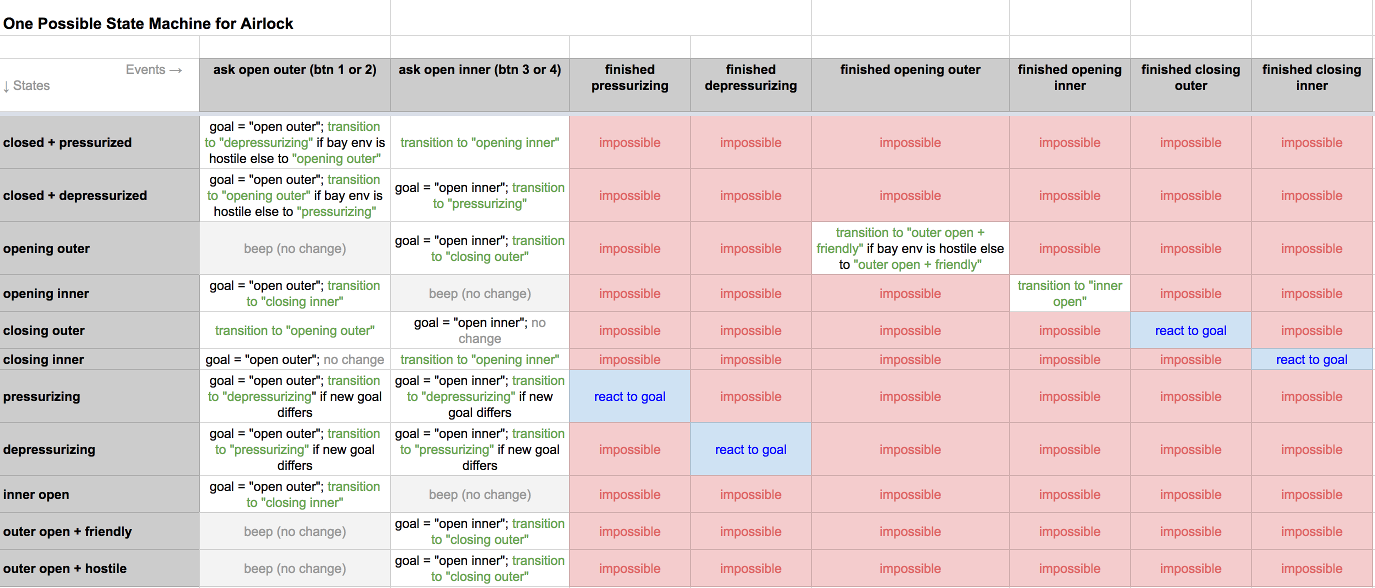
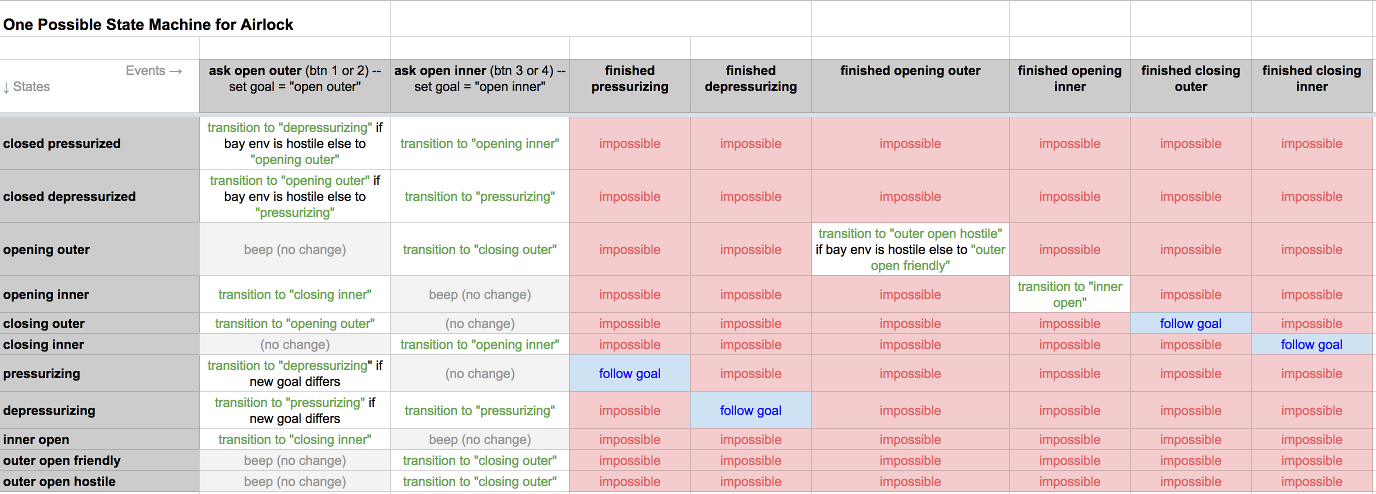
Working airlock

diff --git a/airlock.py b/airlock.py
@@ -1,0 +1,111 @@
+# Define states and events, including symbolic (numeric) constants and their friendly names.
+STATE_NAMES = ['closed pressurized', 'closed depressurized', 'opening outer', 'opening inner', 'closing outer',
+               'closing inner', 'pressurizing', 'depressurizing', 'inner open', 'outer open friendly',
+               'outer open hostile']
+for i in range(len(STATE_NAMES)):
+    globals()[STATE_NAMES[i].upper().replace(' ', '_') + '_STATE'] = i
+EVENT_NAMES = ['ask open outer', 'ask open inner', 'finished pressurizing', 'finished depressurizing',
+               'finished opening outer', 'finished opening inner', 'finished closing outer', 'finished closing inner']
+for i in range(len(EVENT_NAMES)):
+    globals()[EVENT_NAMES[i].upper().replace(' ', '_') + '_EVENT'] = i
+
+SENSOR_BAY_ENV_HOSTILE = 'bay env hostile?'
+
+class StateMachine:
+
+    def __init__(self, sensor_func, pre=None, post=None):
+        self.state = CLOSED_PRESSURIZED_STATE
+        self.goal = None
+        self._sensor_func = sensor_func
+        self._pre = pre
+        self._post = post
+
+    def handle(self, event):
+        s = self.state
+        if event == ASK_OPEN_OUTER_EVENT:
+            if s in [OPENING_OUTER_STATE, OUTER_OPEN_FRIENDLY_STATE, OUTER_OPEN_HOSTILE_STATE]:
+                return
+            target_hostile = self._check_sensor(SENSOR_BAY_ENV_HOSTILE)
+            old_goal = self.goal
+            self.goal = OUTER_OPEN_HOSTILE_STATE if target_hostile else OUTER_OPEN_FRIENDLY_STATE
+            if s == CLOSED_PRESSURIZED_STATE:
+                self._transition_to(
+                    DEPRESSURIZING_STATE if target_hostile else OPENING_OUTER_STATE, event)
+            elif s == CLOSED_DEPRESSURIZED_STATE:
+                self._transition_to(
+                    OPENING_OUTER_STATE if target_hostile else PRESSURIZING_STATE, event)
+            elif s in [OPENING_INNER_STATE, INNER_OPEN_STATE]:
+                self._transition_to(CLOSING_INNER_STATE, event)
+            elif s == CLOSING_OUTER_STATE:
+                self._transition_to(OPENING_OUTER_STATE, event)
+            elif s == CLOSING_INNER_STATE:
+                pass
+            elif s == PRESSURIZING_STATE:
+                if old_goal != self.goal:
+                    self._transition_to(DEPRESSURIZING_STATE, event)
+            elif s == DEPRESSURIZING_STATE:
+                if old_goal != self.goal:
+                    self._transition_to(PRESSURIZING_STATE, event)
+            else:
+                raise AssertionError("Unhandled state %d" % s)
+        elif event == ASK_OPEN_INNER_EVENT:
+            if s in [OPENING_INNER_STATE, INNER_OPEN_STATE]:
+                return
+            self.goal = INNER_OPEN_STATE
+            if s == CLOSED_PRESSURIZED_STATE:
+                self._transition_to(OPENING_INNER_STATE, event)
+            elif s == CLOSED_DEPRESSURIZED_STATE:
+                self._transition_to(PRESSURIZING_STATE, event)
+            elif s in [OPENING_OUTER_STATE, OUTER_OPEN_FRIENDLY_STATE, OUTER_OPEN_HOSTILE_STATE]:
+                self._transition_to(CLOSING_OUTER_STATE, event)
+            elif s == CLOSING_INNER_STATE:
+                self._transition_to(OPENING_INNER_STATE, event)
+            elif s in [PRESSURIZING_STATE, CLOSING_OUTER_STATE]:
+                pass
+            elif s == DEPRESSURIZING_STATE:
+                self._transition_to(PRESSURIZING_STATE, event)
+            else:
+                raise AssertionError("Unhandled state %d" % s)
+        else:
+            if s == OPENING_OUTER_STATE and event == FINISHED_OPENING_OUTER_EVENT:
+                target_hostile = self._check_sensor(SENSOR_BAY_ENV_HOSTILE)
+                self._transition_to(OUTER_OPEN_HOSTILE_STATE if target_hostile else OUTER_OPEN_FRIENDLY_STATE, event)
+                return
+            elif s == OPENING_INNER_STATE and event == FINISHED_OPENING_INNER_EVENT:
+                self._transition_to(INNER_OPEN_STATE, event)
+                return
+            elif (s == CLOSING_OUTER_STATE and event == FINISHED_CLOSING_OUTER_EVENT) or \
+                    (s == CLOSING_INNER_STATE and event == FINISHED_CLOSING_INNER_EVENT) or \
+                    (s == PRESSURIZING_STATE and event == FINISHED_PRESSURIZING_STATE) or \
+                    (s == DEPRESSURIZING_STATE and event == FINISHED_DEPRESSURIZING_STATE):
+                self._follow_goal(s)
+                return
+            raise AssertionError("Illegal event %s for state %s." % (EVENT_NAMES[event], STATE_NAMES[s]))
+
+    def _check_sensor(self, sensor_name):
+        if self._sensor_func:
+            return self._sensor_func(sensor_name)
+
+    def _follow_goal(self, event):
+        if self.goal == INNER_OPEN_STATE:
+            if event == FINISHED_PRESSURIZING:
+                self._transition_to(OPENING_INNER_STATE, event)
+            elif event == FINISHED_CLOSING_OUTER_EVENT:
+                self._transition_to(PRESSURIZING_STATE, event)
+            else:
+                raise AssertionError("Unhandled case.")
+        elif self.goal in [OUTER_OPEN_FRIENDLY_STATE, OUTER_OPEN_HOSTILE_STATE]:
+            if event == FINISHED_DEPRESSURIZING:
+                self._transition_to(OPENING_OUTER_STATE, event)
+            elif event == FINISHED_CLOSING_INNER_EVENT:
+                self._transition_to(DEPRESSURIZING_STATE, event)
+            else:
+                raise AssertionError("Unhandled case.")
+
+    def _transition_to(self, state, event):
+        if self._pre:
+            if not self._pre(self, state, event):
+                return
+        self.state = state
+        if self._post:
+            self._post(self, state, event)

diff --git a/test_airlock.py b/test_airlock.py
@@ -1,0 +1,41 @@
+import unittest
+
+from airlock import *
+from test_helpers import *
+
+# Define expected behavior
+expected_transitions_by_state = namify([
+    [DEPRESSURIZING_STATE, OPENING_INNER_STATE, 'ex', 'ex', 'ex', 'ex', 'ex', 'ex'],  # for CLOSED_PRESSURIZED_STATE
+    [OPENING_OUTER_STATE, PRESSURIZING_STATE, 'ex', 'ex', 'ex', 'ex', 'ex', 'ex'],  # for CLOSED_DEPRESSURIZED_STATE
+    ['', CLOSING_OUTER_STATE, 'ex', 'ex', OUTER_OPEN_HOSTILE_STATE, 'ex', 'ex', 'ex'],  # for OPENING_OUTER_STATE
+    [CLOSING_INNER_STATE, '', 'ex', 'ex', 'ex', INNER_OPEN_STATE, 'ex', 'ex'],  # for OPENING_INNER_STATE
+    [OPENING_OUTER_STATE, '', 'ex', 'ex', 'ex', 'ex', 'ex', 'ex'],  # for CLOSING_OUTER_STATE
+    ['', OPENING_INNER_STATE, 'ex', 'ex', 'ex', 'ex', 'ex', 'ex'],  # for CLOSING_INNER_STATE
+    [DEPRESSURIZING_STATE, '', 'ex', 'ex', 'ex', 'ex', 'ex', 'ex'],  # for PRESSURIZING_STATE
+    [PRESSURIZING_STATE, PRESSURIZING_STATE, 'ex', 'ex', 'ex', 'ex', 'ex', 'ex'],  # for DEPRESSURIZING_STATE
+    [CLOSING_INNER_STATE, '', 'ex', 'ex', 'ex', 'ex', 'ex', 'ex'],  # for INNER_OPEN_STATE
+    ['', CLOSING_OUTER_STATE, 'ex', 'ex', 'ex', 'ex', 'ex', 'ex'],  # for OUTER_OPEN_FRIENDLY_STATE
+    ['', CLOSING_OUTER_STATE, 'ex', 'ex', 'ex', 'ex', 'ex', 'ex'],  # for OUTER_OPEN_HOSTILE_STATE
+], STATE_NAMES)
+
+class Airlock(unittest.TestCase):
+
+    def test_matrix(self):
+        sm = StateMachine(lambda x: True)
+
+        problems = []
+        # Artificially place state machine in a state, and test every event to see if
+        # it triggers the expected transition.
+        for state in range(len(STATE_NAMES)):
+            for event in range(len(EVENT_NAMES)):
+                sm.state = state
+                transition = expected_transitions_by_state[state][event]
+                outcome = check_transition(sm, event, transition, STATE_NAMES, EVENT_NAMES)
+                if outcome:
+                    problems.append(outcome)
+        if problems:
+            msg = '\n'.join(problems)
+            self.fail(msg)
+
+if __name__ == '__main__':
+    unittest.main()

diff --git a/test_bay_door_v1.py b/test_bay_door_v1.py
@@ -1,14 +1,15 @@
 import unittest
 
 from bay_door_v1 import *
+from test_helpers import *
 
 # Define expected behavior
-expected_transitions_by_state = [
-    ['', STATE_NAMES[CLOSING_STATE], 'ex', 'ex'],  # for OPEN_STATE
-    [STATE_NAMES[OPENING_STATE], '', 'ex', 'ex'],  # for CLOSED_STATE
-    ['', STATE_NAMES[CLOSING_STATE], STATE_NAMES[OPEN_STATE], 'ex'],  # for OPENING_STATE
-    [STATE_NAMES[OPENING_STATE], '', 'ex', STATE_NAMES[CLOSED_STATE]]  # for CLOSING_STATE
-]
+expected_transitions_by_state = namify([
+    ['', CLOSING_STATE, 'ex', 'ex'],  # for OPEN_STATE
+    [OPENING_STATE, '', 'ex', 'ex'],  # for CLOSED_STATE
+    ['', CLOSING_STATE, OPEN_STATE, 'ex'],  # for OPENING_STATE
+    [OPENING_STATE, '', 'ex', CLOSED_STATE]  # for CLOSING_STATE
+], STATE_NAMES)
 
 class BayDoorV1(unittest.TestCase):
 
@@ -21,23 +22,13 @@ class BayDoorV1(unittest.TestCase):
         for state in range(len(STATE_NAMES)):
             for event in range(len(EVENT_NAMES)):
                 sm.state = state
-                outcome = check_transition(sm, event, expected_transitions_by_state[state][event])
+                transition = expected_transitions_by_state[state][event]
+                outcome = check_transition(sm, event, transition, STATE_NAMES, EVENT_NAMES)
                 if outcome:
                     problems.append(outcome)
         if problems:
             msg = '\n'.join(problems)
             self.fail(msg)
-
-def check_transition(sm, event, trans):
-    start_state = STATE_NAMES[sm.state]
-    expected = trans if trans else STATE_NAMES[sm.state]
-    try:
-        sm.handle(event)
-        actual = STATE_NAMES[sm.state]
-    except Exception:
-        actual = 'ex'
-    if actual != expected:
-        return "%s + %s != %s -- new state = %s instead" % (start_state, EVENT_NAMES[event], expected, actual)
 
 if __name__ == '__main__':
     unittest.main()

diff --git a/test_bay_door_v2.py b/test_bay_door_v2.py
@@ -1,14 +1,15 @@
 import unittest
 
 from bay_door_v2 import *
+from test_helpers import *
 
 # Define expected behavior
-expected_transitions_by_state = [
-    ['', STATE_NAMES[CLOSING_STATE], 'ex', 'ex'],  # for OPEN_STATE
-    [STATE_NAMES[OPENING_STATE], '', 'ex', 'ex'],  # for CLOSED_STATE
-    ['', STATE_NAMES[CLOSING_STATE], STATE_NAMES[OPEN_STATE], 'ex'],  # for OPENING_STATE
-    [STATE_NAMES[OPENING_STATE], '', 'ex', STATE_NAMES[CLOSED_STATE]]  # for CLOSING_STATE
-]
+expected_transitions_by_state = namify([
+    ['', CLOSING_STATE, 'ex', 'ex'],  # for OPEN_STATE
+    [OPENING_STATE, '', 'ex', 'ex'],  # for CLOSED_STATE
+    ['', CLOSING_STATE, OPEN_STATE, 'ex'],  # for OPENING_STATE
+    [OPENING_STATE, '', 'ex', CLOSED_STATE]  # for CLOSING_STATE
+], STATE_NAMES)
 
 class BayDoorV2(unittest.TestCase):
 
@@ -45,23 +46,13 @@ class BayDoorV2(unittest.TestCase):
         for state in range(len(STATE_NAMES)):
             for event in range(len(EVENT_NAMES)):
                 sm.state = state
-                outcome = check_transition(sm, event, expected_transitions_by_state[state][event])
+                transition = expected_transitions_by_state[state][event]
+                outcome = check_transition(sm, event, transition, STATE_NAMES, EVENT_NAMES)
                 if outcome:
                     problems.append(outcome)
         if problems:
             msg = '\n'.join(problems)
             self.fail(msg)
-
-def check_transition(sm, event, trans):
-    start_state = STATE_NAMES[sm.state]
-    expected = trans if trans else STATE_NAMES[sm.state]
-    try:
-        sm.handle(event)
-        actual = STATE_NAMES[sm.state]
-    except Exception:
-        actual = 'ex'
-    if actual != expected:
-        return "%s + %s != %s -- new state = %s instead" % (start_state, EVENT_NAMES[event], expected, actual)
 
 if __name__ == '__main__':
     unittest.main()

diff --git a/test_helpers.py b/test_helpers.py
@@ -1,0 +1,25 @@
+def namify(matrix, names):
+    '''
+    Walk through a 2D array; for any values that are integers, convert int to friendly name.
+    '''
+    for i in range(len(matrix)):
+        for j in range(len(matrix[i])):
+            value = matrix[i][j]
+            if type(value) == type(0):
+                matrix[i][j] = names[value]
+    return matrix
+
+def check_transition(sm, event, trans, state_names, event_names):
+    '''
+    See if a particular event results in the expected transition, given a state machine
+    in an initial state. If not, return a helpful error message about the discrepancy.
+    '''
+    start_state = state_names[sm.state]
+    expected = trans if trans else state_names[sm.state]
+    try:
+        sm.handle(event)
+        actual = state_names[sm.state]
+    except Exception as ex:
+        actual = 'ex'
+    if actual != expected:
+        return "%s + %s != %s -- new state = %s instead" % (start_state, event_names[event], expected, actual)

diff --git a/bay_door_v2.py b/bay_door_v2.py
@@ -25,7 +25,6 @@ class StateMachine:
             if s == OPENING_STATE:
                 self._transition_to(OPEN_STATE, event)
             else:
-                illegal = True
                 raise AssertionError("Illegal event %s for state %s." % (EVENT_NAMES[event], STATE_NAMES[s]))
         elif event == FINISHED_CLOSING_EVENT:
             if s == CLOSING_STATE:

diff --git a/bay_door_v1.py b/bay_door_v1.py
@@ -23,7 +23,6 @@ class StateMachine:
             if s == OPENING_STATE:
                 self._transition_to(OPEN_STATE)
             else:
-                illegal = True
                 raise AssertionError("Illegal event %s for state %s." % (EVENT_NAMES[event], STATE_NAMES[s]))
         elif event == FINISHED_CLOSING_EVENT:
             if s == CLOSING_STATE:

diff --git a/README.md b/README.md
@@ -119,11 +119,21 @@ Otherwise, pressure is equalized first.
 
 The state machine for this airlock might look like this:
 
-![airlock matrix](airlock-matrix.png)
+<a target="spreadsheet" href="http://bit.ly/2saruah"><img
+src="airlock-matrix.png" width="640"/></a>
 
-I didn't write the code to implement this state machine, but it would
-be just a more complex instance of the same patterns shown in the
-earlier example.
+This state machine isn't just more complicated because it's bigger; it
+introduces two new ideas:
+
+* The notion of conditional transitions -- going to different states
+depending on external conditions. (Example: in the `closed + pressurized`
+state, if the `ask open outer` event occurs, the airlock transitions to
+the `depressurizing` state if the bay environment is hostile, or to the
+`opening outer` state if the bay environment is also pressurized.)
+* The notion of a __goal__--something the state machine can't achieve
+immediately, but that it will keep working on until it succeeds or until
+its goal changes. A goal does not vary with external conditions, but it
+may cause different reactions as external conditions change.
 
 ### Bay Environment
 
@@ -272,4 +282,4 @@ tradeoffs either way.
 
 Suppose that Alice is wearing an ordinary uniform instead of a space
 suit, and that she's currently in airlock B, hoping to enter the launch
-bay. She's already pressed button 2, 
+bay. She's already pressed button 2,
